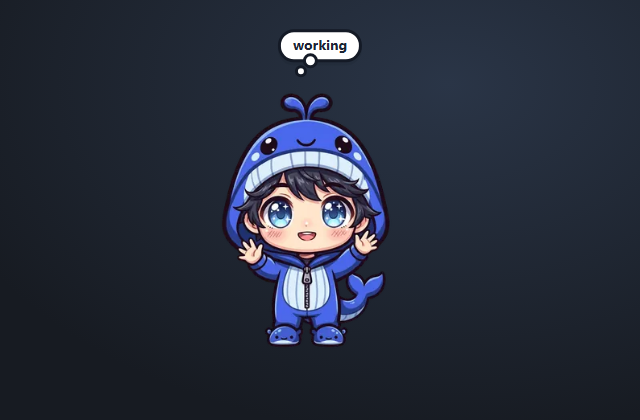
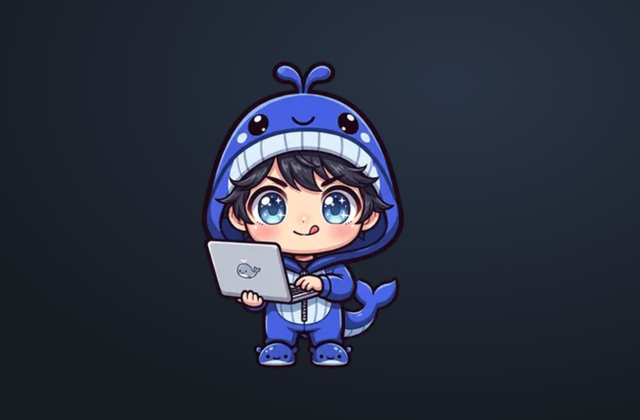
docs: correct compatibility, install and behavior notes

Changed region(s): [[0.3125, 0.0619, 0.6562, 0.8976]]

diff --git a/README.md b/README.md
@@ -9,11 +9,11 @@ and tells you what the agent is doing while you wait.
 
 [![CI](https://github.com/lubenkov/dsh-pajama-whale/actions/workflows/ci.yml/badge.svg?branch=master)](https://github.com/lubenkov/dsh-pajama-whale/actions/workflows/ci.yml)
 [![License: MIT](https://img.shields.io/badge/license-MIT-yellow.svg)](LICENSE)
-[![DSH](https://img.shields.io/badge/DSH-%E2%89%A50.2.1--rc.2%20%3C0.3.0-4D6BFE)](COMPATIBILITY.md)
+[![DSH](https://img.shields.io/badge/DSH-%E2%89%A50.2.1--rc.2%20%3C0.3.0--0-4D6BFE)](COMPATIBILITY.md)
 
 [English](README.md) · [中文](README.zh.md)
 
-<img src="docs/preview.png" width="620" alt="The pet in his whale onesie with a thought cloud reading “working”">
+<img src="docs/preview.png" width="620" alt="The pet at his laptop in a whale onesie">
 
 </div>
 
@@ -27,21 +27,32 @@ pops a thought cloud when you are needed, and speaks up when the context is
 running out, when a turn failed, or when you have been at it for fifty minutes
 straight.
 
-No configuration. No network calls. The whole thing is one overlay slot.
+No configuration. No network calls of its own. The whole thing is one overlay
+slot.
 
 ## Install
 
+Web (verified on DSH `0.2.1-rc.2`):
+
 ```sh
-dsh plugin --profile web add github:lubenkov/dsh-pajama-whale#v0.3.2
+dsh plugin --profile web add github:lubenkov/dsh-pajama-whale#v0.3.3
 ```
 
-Swap `web` for the profile you boot (`desktop`, …), then restart the
-harness — he lands in the bottom-right corner the first time. The `#v0.3.2`
-suffix pins the tagged release instead of the moving `master`; drop it to
-follow the branch. To remove him:
+Desktop is a reserved profile: the npm `dsh` CLI refuses to manage it. Use the
+command installed from the app menu **Manage dsh Command…**, or the Plugin
+Manager page inside the app:
 
 ```sh
-dsh plugin --profile web remove dsh-pajama-whale
+dsh plugin --profile desktop add github:lubenkov/dsh-pajama-whale#v0.3.3
+```
+
+Quit the app before changing plugins and reopen it afterwards. Swap `web` for
+another profile you boot. The `#v0.3.3` suffix pins the tagged release; without
+it, pnpm resolves the current `master` once and records that commit in the
+lockfile, so moving to newer commits needs a reinstall or update. To remove him:
+
+```sh
+dsh plugin --profile <profile> remove dsh-pajama-whale
 ```
 
 No build step at install time: the artwork ships inlined in `client.js`, so
@@ -49,10 +60,12 @@ No build step at install time: the artwork ships inlined in `client.js`, so
 It is a pure UI bundle (no dependencies, no host services beyond the ones it
 reads through).
 
-**Declared for DSH `>=0.2.1-rc.2 <0.3.0`** in `engines.dsh`. The plugin market
-uses that range to label compatibility; DSH itself does not block a newer host,
-but the status integration may degrade — see [COMPATIBILITY.md](COMPATIBILITY.md)
-for the exact API surface and what degrades gracefully.
+**Declared for DSH `>=0.2.1-rc.2 <0.3.0-0`** in `engines.dsh`. DSH enforces it
+at installation and profile startup; outside the range it refuses the bundle
+until an exact-version exemption is granted. When listed, the plugin market
+reads the same range to label compatibility. See
+[COMPATIBILITY.md](COMPATIBILITY.md) for the API surface, the exemption
+command, and what degrades gracefully.
 
 ## Play with him
 
@@ -68,7 +81,7 @@ for the exact API surface and what degrades gracefully.
 
 | What the session does | What he does |
 |---|---|
-| Tools running | Switches to the `working` pose — laptop out, 12 frames |
+| A tool has run in this turn | Switches to the `working` pose — laptop out, 12 frames |
 | Turn running, no tool activity | `thinking`, 20 frames |
 | Turn finishes | One `joy` burst |
 | Waiting for your approval or an answer | Cloud shows `?` |
@@ -78,7 +91,9 @@ for the exact API surface and what degrades gracefully.
 | A minute of quiet | Falls asleep on a looping 16-frame `sleepy`; a yawn (13 frames) when you wake him with the cursor — a new turn wakes him silently |
 
 While idle he only blinks (75 %) or wags his tail (25 %), every 1.9–4.5 s, plus
-a rare `hmm…` thought. That is 129 frames across 12 sprite sheets.
+a rare `hmm…` thought. That is 129 frames across 12 sprite sheets. While you
+drag him or while he is stuck to a wall, poses and one-shot emotions pause: the
+squash frame wins.
 
 ### One cloud, strict priority
 
@@ -89,13 +104,15 @@ clicking always wins, so the pet never hides the context reading from you.
 ## Cheap and quiet
 
 - **Nothing to build, nothing to fetch.** All 12 sheets (2.3 MB of WebP,
-  129 frames) are inlined as data URIs into a single 3.1 MB `client.js`. Zero
-  network requests at runtime.
+  129 frames) are inlined as data URIs into a single 3.1 MB `client.js`. The
+  plugin makes no outbound requests of its own.
 - **Cheap when idle.** The `requestAnimationFrame` loop stops as soon as the
-  pet is idle and no pose is playing; pose loops repaint only at their own
-  8–12 fps. Breathing is a ~3.4 s CSS animation every 25–40 s. Everything
-  pauses while the tab is hidden, and breathing plus random emotions are
-  disabled under `prefers-reduced-motion` (pose animations still play).
+  pet is idle and no pose is playing; sprite frames advance at their own
+  8–12 fps. Breathing is a ~3.4 s CSS animation every 25–40 s. The loop and
+  breathing pause while the tab is hidden; the status ticker and idle-thought
+  timer are throttled by the browser but not cancelled. Breathing and random
+  emotions are disabled under `prefers-reduced-motion` (pose animations still
+  play).
 - **Never in your way.** He mounts only into `shell.overlay`, and the overlay
   is `pointer-events: none` outside his body and cloud.
 - **Remembers his place.** Position, wall and squash depth live in
@@ -106,15 +123,15 @@ clicking always wins, so the pet never hides the context reading from you.
 English and Chinese strings follow Settings → Language through `ctx.locale`
 (anything else falls back to English). The plugin reads only session status,
 context pressure, session title and recent tool activity to choose a pose. It
-sends nothing anywhere, has no telemetry, and stores nothing but the pet's
-coordinates on your machine.
+sends nothing anywhere, has no telemetry, and stores only the pet's position,
+wall side, squash depth and stuck flag in `localStorage` on your machine.
 
 ## If he does not show up
 
 1. Confirm the profile you installed into is the one you boot.
-2. Check the DSH version against the declared range. A newer host is not
-   blocked: the pet still renders and drags, but some status channels may be
-   missing.
+2. Check the DSH version against the declared range. Outside it, installation
+   or profile startup refuses the bundle; grant an exact-version exemption only
+   after accepting the risk (see [COMPATIBILITY.md](COMPATIBILITY.md)).
 3. Set `localStorage['pajama-whale:debug'] = '1'` and reload: the cloud then
    prints the live channels (session id, slot hooks, running state). Missing
    channels are listed in [COMPATIBILITY.md](COMPATIBILITY.md#degradation) —

diff --git a/README.zh.md b/README.zh.md
@@ -9,11 +9,11 @@
 
 [![CI](https://github.com/lubenkov/dsh-pajama-whale/actions/workflows/ci.yml/badge.svg?branch=master)](https://github.com/lubenkov/dsh-pajama-whale/actions/workflows/ci.yml)
 [![License: MIT](https://img.shields.io/badge/license-MIT-yellow.svg)](LICENSE)
-[![DSH](https://img.shields.io/badge/DSH-%E2%89%A50.2.1--rc.2%20%3C0.3.0-4D6BFE)](COMPATIBILITY.md)
+[![DSH](https://img.shields.io/badge/DSH-%E2%89%A50.2.1--rc.2%20%3C0.3.0--0-4D6BFE)](COMPATIBILITY.md)
 
 [English](README.md) · [中文](README.zh.md)
 
-<img src="docs/preview.png" width="620" alt="穿着鲸鱼连体衣的宠物，气泡里写着“working”">
+<img src="docs/preview.png" width="620" alt="穿着鲸鱼连体衣的宠物正在用笔记本电脑">
 
 </div>
 
@@ -24,29 +24,39 @@
 当长回合运行时，可以和他玩。工具开始时，他会掏出笔记本电脑；需要你时，他会冒出思考气泡；
 当上下文快用完、回合失败，或者你已经连续工作五十分钟时，他会开口提醒。
 
-无需配置。没有网络请求。整个东西只占用一个 overlay 插槽。
+无需配置。自身不发起网络请求。整个东西只占用一个 overlay 插槽。
 
 ## 安装
 
+Web（已在 DSH `0.2.1-rc.2` 上验证）：
+
 ```sh
-dsh plugin --profile web add github:lubenkov/dsh-pajama-whale#v0.3.2
+dsh plugin --profile web add github:lubenkov/dsh-pajama-whale#v0.3.3
 ```
 
-把 `web` 换成你启动时使用的 profile（`desktop` 等），然后重启 harness——
-第一次他会落在右下角。`#v0.3.2` 后缀把安装固定到已打标签的版本，而不是不断移动的
-`master`；去掉它则跟随分支。要移除他：
+Desktop 是保留 profile：npm 版 `dsh` CLI 拒绝管理它。请使用应用菜单
+**Manage dsh Command…** 安装的命令，或应用内的 Plugin Manager 页面：
 
 ```sh
-dsh plugin --profile web remove dsh-pajama-whale
+dsh plugin --profile desktop add github:lubenkov/dsh-pajama-whale#v0.3.3
+```
+
+更改插件前先退出应用，之后重新打开。把 `web` 换成你启动的另一个 profile。
+`#v0.3.3` 后缀固定到已打标签的版本；不带后缀时，pnpm 只解析一次当前 `master`
+并把该提交写入 lockfile，要跟进新提交需要重新安装或更新。要移除他：
+
+```sh
+dsh plugin --profile <profile> remove dsh-pajama-whale
 ```
 
 安装时没有构建步骤：美术资源已内联进 `client.js`，所以只需要 `dsh plugin add`——
 没有 postinstall 钩子，也没有运行时下载。它是一个纯 UI bundle（没有依赖，
 除了它读取的那些之外不使用任何宿主服务）。
 
-**声明兼容 DSH `>=0.2.1-rc.2 <0.3.0`**，写在 `engines.dsh` 中。插件市场用这个范围
-来标注兼容性；DSH 本身不会阻止更新的宿主，但状态集成可能会降级——确切的 API 面和
-优雅降级见 [COMPATIBILITY.md](COMPATIBILITY.md)。
+**声明兼容 DSH `>=0.2.1-rc.2 <0.3.0-0`**，写在 `engines.dsh` 中。DSH 会在安装和
+启动 profile 时强制执行；超出范围会拒绝该 bundle，直到为确切的版本对授予豁免。
+列入目录后，插件市场会用同一范围标注兼容性。API 面、豁免命令和优雅降级见
+[COMPATIBILITY.md](COMPATIBILITY.md)。
 
 ## 和他一起玩
 
@@ -62,7 +72,7 @@ dsh plugin --profile web remove dsh-pajama-whale
 
 | 会话在做什么 | 他会做什么 |
 |---|---|
-| 工具运行中 | 切换到 `working` 姿势——掏出笔记本电脑，12 帧 |
+| 本回合中已运行过工具 | 切换到 `working` 姿势——掏出笔记本电脑，12 帧 |
 | 回合运行中，没有工具活动 | `thinking`，20 帧 |
 | 回合结束 | 一次 `joy` 爆发 |
 | 等待你的批准或回答 | 气泡显示 `?` |
@@ -72,7 +82,8 @@ dsh plugin --profile web remove dsh-pajama-whale
 | 安静一分钟 | 以循环的 16 帧 `sleepy` 睡着；当你用光标叫醒他时打哈欠（13 帧）——新的回合会安静地叫醒他 |
 
 空闲时他只会眨眼（75 %）或摇尾巴（25 %），每 1.9–4.5 秒一次，外加罕见的
-`hmm…` 想法。一共是 12 张精灵图里的 129 帧。
+`hmm…` 想法。一共是 12 张精灵图里的 129 帧。当你拖动他或他贴在墙上时，
+姿势和一次性情绪会暂停：压扁帧优先。
 
 ### 一个气泡，严格优先级
 
@@ -83,11 +94,11 @@ dsh plugin --profile web remove dsh-pajama-whale
 ## 省电又安静
 
 - **无需构建，无需下载。** 全部 12 张图（2.3 MB WebP、129 帧）都以 data URI
-  内联进单个 3.1 MB 的 `client.js`。运行时零网络请求。
+  内联进单个 3.1 MB 的 `client.js`。插件自身不发起任何外部请求。
 - **空闲时很省。** 当宠物空闲且没有姿势在播放时，`requestAnimationFrame` 循环会停止；
-  姿势循环只以自己的 8–12 fps 重绘。呼吸是每 25–40 秒一次的约 3.4 秒 CSS 动画。
-  标签页隐藏时一切暂停；在 `prefers-reduced-motion` 下，呼吸和随机情绪会被禁用
-  （姿势动画仍会播放）。
+  精灵帧按自己的 8–12 fps 前进。呼吸是每 25–40 秒一次的约 3.4 秒 CSS 动画。
+  标签页隐藏时循环和呼吸暂停；状态计时器和空闲想法计时器会被浏览器降频，但不会取消。
+  在 `prefers-reduced-motion` 下，呼吸和随机情绪会被禁用（姿势动画仍会播放）。
 - **从不挡路。** 他只挂载到 `shell.overlay`，在他身体和气泡之外，
   overlay 是 `pointer-events: none`。
 - **记住自己的位置。** 位置、贴住的墙和压扁深度保存在 `localStorage`，
@@ -97,13 +108,14 @@ dsh plugin --profile web remove dsh-pajama-whale
 
 英语和中文文案通过 `ctx.locale` 跟随“设置 → 语言”（其他语言回退到英语）。
 插件只读取会话状态、上下文压力、会话标题和最近的工具活动来选择姿势。
-它不向任何地方发送数据，没有遥测，除了宠物的坐标外不在你的机器上存储任何东西。
+它不向任何地方发送数据，没有遥测，只在你的机器上的 `localStorage` 中保存宠物的位置、
+贴住的墙、压扁深度和粘贴标志。
 
 ## 如果他没有出现
 
 1. 确认你安装到的 profile 就是你启动的那个。
-2. 检查 DSH 版本是否在声明范围内。更新的宿主不会被阻止：宠物仍会渲染和拖动，
-   但某些状态通道可能缺失。
+2. 检查 DSH 版本是否在声明范围内。超出范围时，安装或启动 profile 会拒绝该 bundle；
+   只有在接受风险后才授予确切版本豁免（见 [COMPATIBILITY.md](COMPATIBILITY.md)）。
 3. 设置 `localStorage['pajama-whale:debug'] = '1'` 并重新加载：气泡会打印实时通道
    （会话 id、插槽钩子、运行状态）。缺失的通道列在
    [COMPATIBILITY.md](COMPATIBILITY.md#degradation) 中——即使没有它们，

diff --git a/COMPATIBILITY.md b/COMPATIBILITY.md
@@ -1,6 +1,11 @@
 # Compatibility
 
-Declared range: `>=0.2.1-rc.2 <0.3.0` (`engines.dsh` in `package.json`).
+Declared range: `>=0.2.1-rc.2 <0.3.0-0` (`engines.dsh` in `package.json`).
+
+DSH enforces this range at installation and at profile startup. A version
+outside it is refused until you grant an exact-version exemption for that
+plugin version and that DSH runtime. Prereleases participate in range
+matching, so `<0.3.0-0` is used to exclude every `0.3.0` prerelease as well.
 
 ## Verified against
 
@@ -9,9 +14,23 @@ Declared range: `>=0.2.1-rc.2 <0.3.0` (`engines.dsh` in `package.json`).
 | `0.2.1-rc.2` | `@deepseek-ai/dsh` from npm, install and behaviour |
 | `0.2.1-rc.3` | DeepSeek Harness desktop runtime, install and behaviour |
 
-DSH does not read `engines.dsh` from a plugin's `package.json`; the field is
-declarative. The plugin market index carries the same range per version and
-shows compatibility from it.
+## If DSH refuses the range
+
+Installation reports `incompatible-version` with the unmet `engines.dsh`
+requirement. Grant an exemption only after accepting the risk, with the exact
+plugin and runtime versions:
+
+```sh
+dsh plugin --profile <profile> allow-version \
+  dsh-pajama-whale@<version> \
+  --dsh-version <dsh-version> \
+  --accept-risk
+```
+
+The grant is stored in the profile's `compatibility.json`; it covers only that
+exact pair and is not inherited by plugin or DSH upgrades. Revoke it with
+`revoke-version`. In the Web UI the same operation is available through the
+plugin manager's version-exemption actions.
 
 ## APIs used
 
@@ -31,15 +50,17 @@ shows compatibility from it.
 - No locale service: English strings.
 - No `uiWorkspace`: clicking the cloud does nothing.
 - No slot standard props: the pet uses `uiSession` and `sessions.binding`.
-- Any thrown integration error is contained; the pet never blocks the host UI.
+- Service lookups and snapshot reads are wrapped: if `host.get`, `binding`,
+  `getSnapshot`, a projection or a subscription throws, that channel is skipped
+  and the pet stays a decoration. The host UI is never blocked by the pet.
 
 To see which channels are live, set
 `localStorage['pajama-whale:debug'] = '1'` and reload. The cloud then shows the
 detected session id, the `uiSession` id, which slot hooks are present, whether
-the session is running, and whether `ctx.get` works.
+the session is running, and whether `ctx.get` is callable.
 
 ## Updating
 
-When a new DSH release changes a client API: update the range here and in the
-market index, verify the debug line still shows live channels, and add the
-version to the table above.
+When a new DSH release changes a client API: update the range in
+`package.json` and in the market index, verify the debug line still shows live
+channels, and add the version to the table above.
